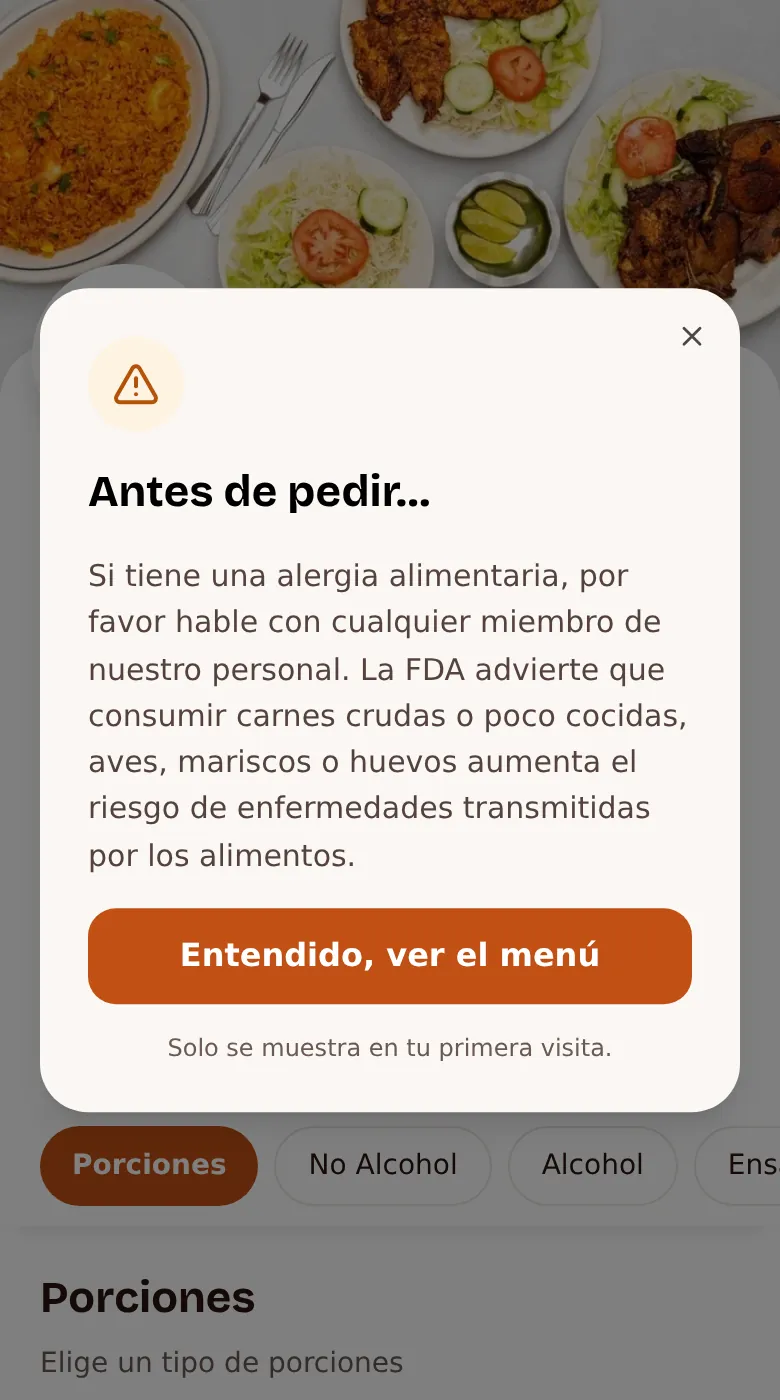
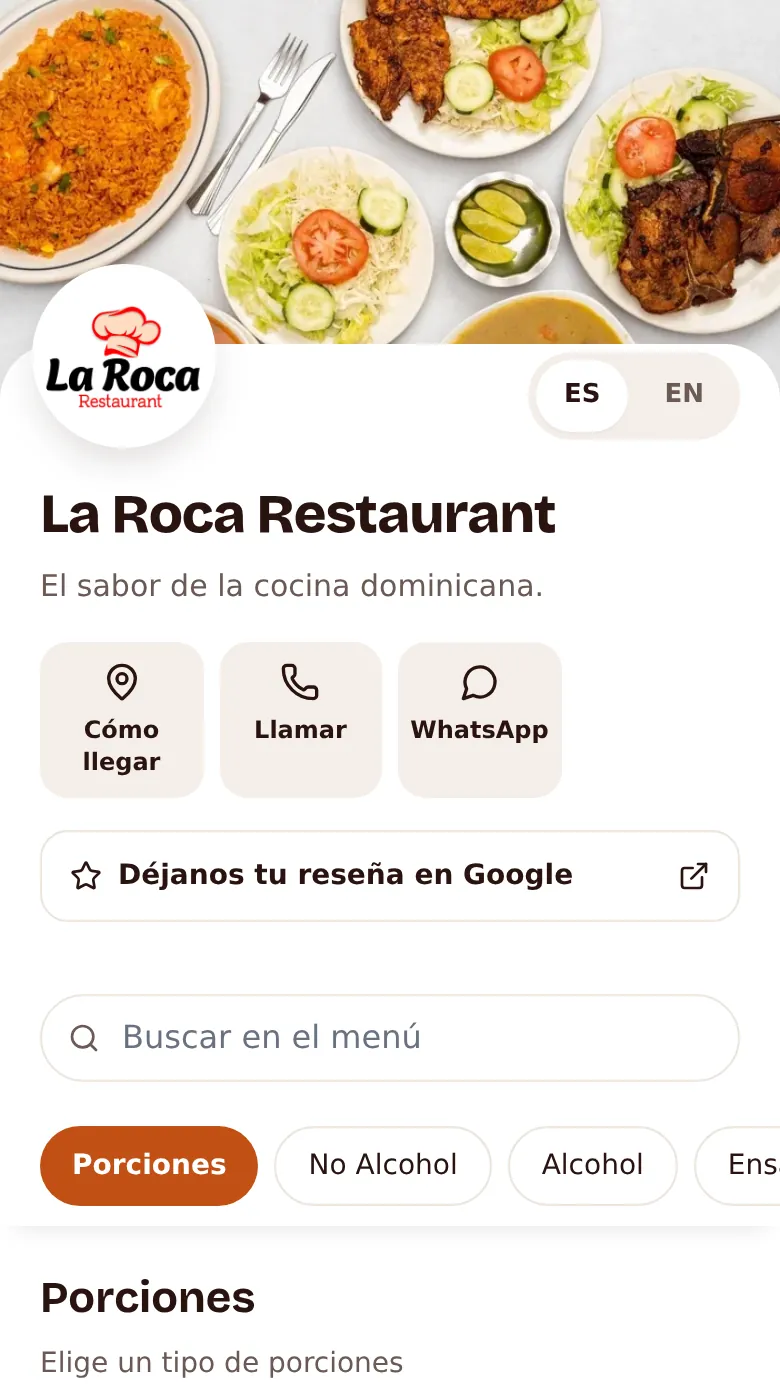
fix(landing): dos menús reales en la vitrina

diff --git a/src/pages/landing/sections/Showcase.tsx b/src/pages/landing/sections/Showcase.tsx
@@ -4,7 +4,6 @@ import { ExternalLink } from "lucide-react";
 const REAL_MENUS = [
 	{ name: "Grey Café", slug: "greycafe", image: "/showcase/greycafe.webp", height: 1688 },
 	{ name: "La Roca Restaurant", slug: "la-roca-restaurant", image: "/showcase/la-roca.webp", height: 1400 },
-	{ name: "El Catador", slug: "el-catador", image: "/showcase/el-catador.webp", height: 1400 },
 ];
 
 export function Showcase() {
@@ -16,7 +15,7 @@ export function Showcase() {
 				</h2>
 				<p className="text-cacao-2">Entra a uno y verás exactamente lo que ven tus clientes.</p>
 			</div>
-			<ul className="grid gap-6 sm:grid-cols-2 lg:grid-cols-3">
+			<ul className="mx-auto grid w-full max-w-3xl gap-6 sm:grid-cols-2">
 				{REAL_MENUS.map((m) => (
 					<li key={m.slug}>
 						<a
